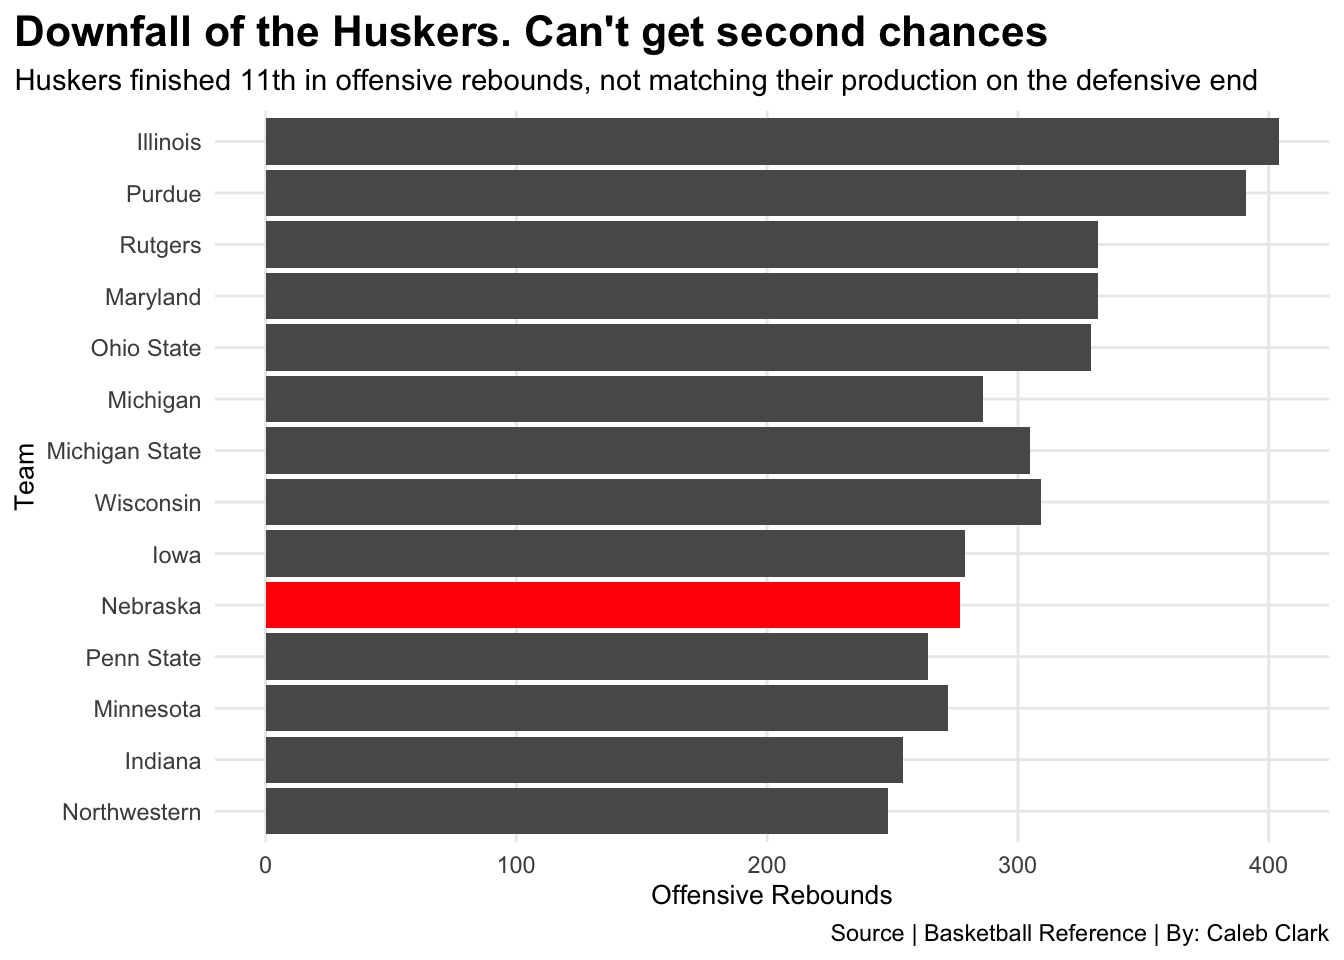
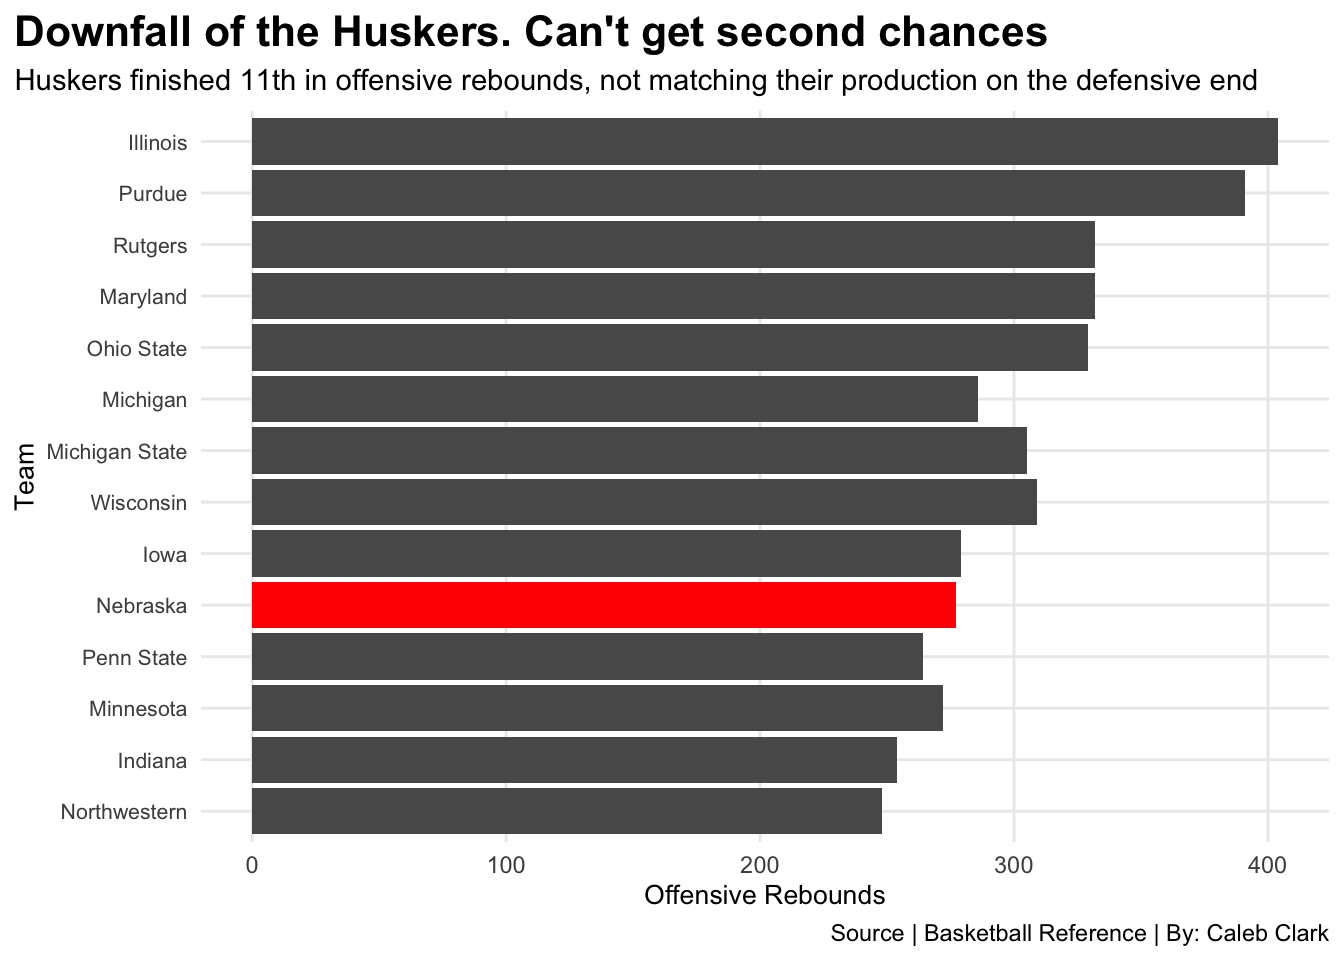
changed background

diff --git a/posts/husker-basketball-rebounding-struggles/index.html b/posts/husker-basketball-rebounding-struggles/index.html
@@ -310,8 +310,11 @@ pre > code.sourceCode > span > a:first-child::before { text-decoration: underlin
 <span id="cb3-25"><a href="#cb3-25" aria-hidden="true" tabindex="-1"></a>    <span class="at">axis.title =</span> <span class="fu">element_text</span>(<span class="at">size=</span><span class="dv">10</span>),</span>
 <span id="cb3-26"><a href="#cb3-26" aria-hidden="true" tabindex="-1"></a>    <span class="at">plot.subtitle =</span> <span class="fu">element_text</span>(<span class="at">size=</span><span class="dv">11</span>),</span>
 <span id="cb3-27"><a href="#cb3-27" aria-hidden="true" tabindex="-1"></a>    <span class="at">plot.title.position =</span> <span class="st">"plot"</span>,</span>
-<span id="cb3-28"><a href="#cb3-28" aria-hidden="true" tabindex="-1"></a>    <span class="at">panel.grid.minor =</span> <span class="fu">element_blank</span>()</span>
-<span id="cb3-29"><a href="#cb3-29" aria-hidden="true" tabindex="-1"></a>)</span></code><button title="Copy to Clipboard" class="code-copy-button"><i class="bi"></i></button></pre></div>
+<span id="cb3-28"><a href="#cb3-28" aria-hidden="true" tabindex="-1"></a>    <span class="at">panel.grid.minor =</span> <span class="fu">element_blank</span>(),</span>
+<span id="cb3-29"><a href="#cb3-29" aria-hidden="true" tabindex="-1"></a>    <span class="at">axis.text.y =</span> <span class="fu">element_text</span>(<span class="at">size =</span> <span class="dv">8</span>),  </span>
+<span id="cb3-30"><a href="#cb3-30" aria-hidden="true" tabindex="-1"></a>    <span class="at">panel.background =</span> <span class="fu">element_rect</span>(<span class="at">fill =</span> <span class="st">"white"</span>, <span class="at">color =</span> <span class="st">"white"</span>),</span>
+<span id="cb3-31"><a href="#cb3-31" aria-hidden="true" tabindex="-1"></a>    <span class="at">plot.background =</span> <span class="fu">element_rect</span>(<span class="at">fill =</span> <span class="st">"white"</span>, <span class="at">color =</span> <span class="st">"white"</span>) </span>
+<span id="cb3-32"><a href="#cb3-32" aria-hidden="true" tabindex="-1"></a>)</span></code><button title="Copy to Clipboard" class="code-copy-button"><i class="bi"></i></button></pre></div>
 </details>
 <div class="cell-output-display">
 <div>
@@ -345,8 +348,11 @@ pre > code.sourceCode > span > a:first-child::before { text-decoration: underlin
 <span id="cb4-17"><a href="#cb4-17" aria-hidden="true" tabindex="-1"></a>    <span class="at">axis.title =</span> <span class="fu">element_text</span>(<span class="at">size=</span><span class="dv">10</span>),</span>
 <span id="cb4-18"><a href="#cb4-18" aria-hidden="true" tabindex="-1"></a>    <span class="at">plot.subtitle =</span> <span class="fu">element_text</span>(<span class="at">size=</span><span class="dv">11</span>),</span>
 <span id="cb4-19"><a href="#cb4-19" aria-hidden="true" tabindex="-1"></a>    <span class="at">plot.title.position =</span> <span class="st">"plot"</span>,</span>
-<span id="cb4-20"><a href="#cb4-20" aria-hidden="true" tabindex="-1"></a>    <span class="at">panel.grid.minor =</span> <span class="fu">element_blank</span>()</span>
-<span id="cb4-21"><a href="#cb4-21" aria-hidden="true" tabindex="-1"></a>)</span></code><button title="Copy to Clipboard" class="code-copy-button"><i class="bi"></i></button></pre></div>
+<span id="cb4-20"><a href="#cb4-20" aria-hidden="true" tabindex="-1"></a>    <span class="at">panel.grid.minor =</span> <span class="fu">element_blank</span>(),</span>
+<span id="cb4-21"><a href="#cb4-21" aria-hidden="true" tabindex="-1"></a>    <span class="at">axis.text.y =</span> <span class="fu">element_text</span>(<span class="at">size =</span> <span class="dv">8</span>),  </span>
+<span id="cb4-22"><a href="#cb4-22" aria-hidden="true" tabindex="-1"></a>    <span class="at">panel.background =</span> <span class="fu">element_rect</span>(<span class="at">fill =</span> <span class="st">"white"</span>, <span class="at">color =</span> <span class="st">"white"</span>),  </span>
+<span id="cb4-23"><a href="#cb4-23" aria-hidden="true" tabindex="-1"></a>    <span class="at">plot.background =</span> <span class="fu">element_rect</span>(<span class="at">fill =</span> <span class="st">"white"</span>, <span class="at">color =</span> <span class="st">"white"</span>) </span>
+<span id="cb4-24"><a href="#cb4-24" aria-hidden="true" tabindex="-1"></a>)</span></code><button title="Copy to Clipboard" class="code-copy-button"><i class="bi"></i></button></pre></div>
 </details>
 <div class="cell-output-display">
 <div>
@@ -425,8 +431,11 @@ pre > code.sourceCode > span > a:first-child::before { text-decoration: underlin
 <span id="cb5-62"><a href="#cb5-62" aria-hidden="true" tabindex="-1"></a>    <span class="at">axis.title =</span> <span class="fu">element_text</span>(<span class="at">size=</span><span class="dv">10</span>),</span>
 <span id="cb5-63"><a href="#cb5-63" aria-hidden="true" tabindex="-1"></a>    <span class="at">plot.subtitle =</span> <span class="fu">element_text</span>(<span class="at">size=</span><span class="dv">11</span>),</span>
 <span id="cb5-64"><a href="#cb5-64" aria-hidden="true" tabindex="-1"></a>    <span class="at">plot.title.position =</span> <span class="st">"plot"</span>,</span>
-<span id="cb5-65"><a href="#cb5-65" aria-hidden="true" tabindex="-1"></a>    <span class="at">panel.grid.minor =</span> <span class="fu">element_blank</span>()</span>
-<span id="cb5-66"><a href="#cb5-66" aria-hidden="true" tabindex="-1"></a>)</span></code><button title="Copy to Clipboard" class="code-copy-button"><i class="bi"></i></button></pre></div>
+<span id="cb5-65"><a href="#cb5-65" aria-hidden="true" tabindex="-1"></a>    <span class="at">panel.grid.minor =</span> <span class="fu">element_blank</span>(),</span>
+<span id="cb5-66"><a href="#cb5-66" aria-hidden="true" tabindex="-1"></a>    <span class="at">axis.text.y =</span> <span class="fu">element_text</span>(<span class="at">size =</span> <span class="dv">8</span>), </span>
+<span id="cb5-67"><a href="#cb5-67" aria-hidden="true" tabindex="-1"></a>    <span class="at">panel.background =</span> <span class="fu">element_rect</span>(<span class="at">fill =</span> <span class="st">"white"</span>, <span class="at">color =</span> <span class="st">"white"</span>), </span>
+<span id="cb5-68"><a href="#cb5-68" aria-hidden="true" tabindex="-1"></a>    <span class="at">plot.background =</span> <span class="fu">element_rect</span>(<span class="at">fill =</span> <span class="st">"white"</span>, <span class="at">color =</span> <span class="st">"white"</span>) </span>
+<span id="cb5-69"><a href="#cb5-69" aria-hidden="true" tabindex="-1"></a>)</span></code><button title="Copy to Clipboard" class="code-copy-button"><i class="bi"></i></button></pre></div>
 </details>
 <div class="cell-output cell-output-stderr">
 <pre><code>`geom_smooth()` using formula = 'y ~ x'</code></pre>

diff --git a/index.html b/index.html
@@ -210,7 +210,7 @@ window.Quarto = {
 
 <div class="quarto-listing quarto-listing-container-default" id="listing-listing">
 <div class="list quarto-listing-default">
-<div class="quarto-post image-right" data-index="0" data-categories="bmNhYSxiYXNrZXRiYWxsLGh1c2tlcnM=" data-listing-date-sort="1731823200000" data-listing-file-modified-sort="1731882913147" data-listing-date-modified-sort="NaN" data-listing-reading-time-sort="9" data-listing-word-count-sort="1698">
+<div class="quarto-post image-right" data-index="0" data-categories="bmNhYSxiYXNrZXRiYWxsLGh1c2tlcnM=" data-listing-date-sort="1731823200000" data-listing-file-modified-sort="1731979301077" data-listing-date-modified-sort="NaN" data-listing-reading-time-sort="9" data-listing-word-count-sort="1799">
 <div class="thumbnail">
 <p><a href="./posts/husker-basketball-rebounding-struggles/index.html" class="no-external"></a></p><a href="./posts/husker-basketball-rebounding-struggles/index.html" class="no-external">
 <p class="card-img-top"><img src="posts/husker-basketball-rebounding-struggles/index_files/figure-html/unnamed-chunk-1-1.png"  class="thumbnail-image card-img"/></p>
